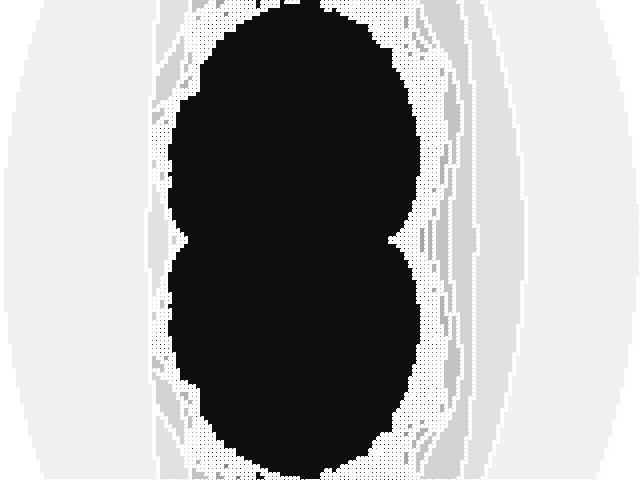
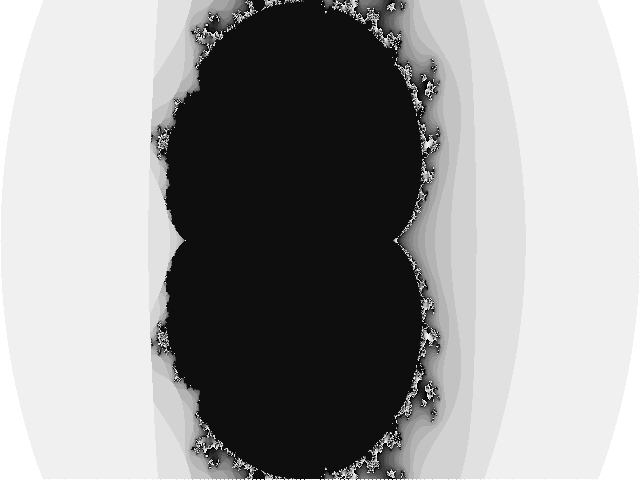
Fix sampling issue.

diff --git a/mandelbrot/mandelbrot.go b/mandelbrot/mandelbrot.go
@@ -101,13 +101,8 @@ func oneToOneFillImg(m *img) {
 	for i, row := range m.m {
 		for j := range row {
 			go func(i, j int) {
-				start := time.Now()
-				log.Println("Thread-", i, ".", j, " started." )
 				fillPixel(m, i, j)
-				log.Println("Thread-", i, ".", j, " stopped." )
-				elapsed := time.Since(start)
-  				log.Println("Thread-", i, ".", j, " execution time was", elapsed)
-				wg.Done()
+				defer wg.Done()
 			}(i, j)
 		}
 	}
@@ -166,7 +161,7 @@ func worker(id string, m *img, w int, h int, jobs <-chan struct{ i, j int }, res
 	divide := checkBlock(t, m, w, h)
 	if divide && (h > 4 || w > 4) {
 		devide(id, m, w, h, t)		
-	} else if (h < 4 || w < 4) {
+	} else if (h <= 4 || w <= 4) {
 		var limit_w = t.i + w
 		if (t.i + w >= m.w) {
 			limit_w = m.w - 1
@@ -238,17 +233,11 @@ func checkBlock(t struct{ i, j int }, m *img, w int, h int) bool{
 
 
 func perPixel(m *img, start_x int, end_x int, start_y int, end_y int) {
-	//var wg sync.WaitGroup
 	for i := start_x; i < end_x; i++ {
-	//	wg.Add(1)
-	//	go func(i int) {
-		//	defer wg.Done()
-			for j := start_y; j < end_y; j++ {
-				fillPixel(m, i, j)
-			}
-	//	}(i)
+		for j := start_y; j < end_y; j++ {
+			fillPixel(m, i, j)
+		}
 	}
-//	wg.Wait()
 }
 
 func fillPixel(m *img, i, j int) int {
